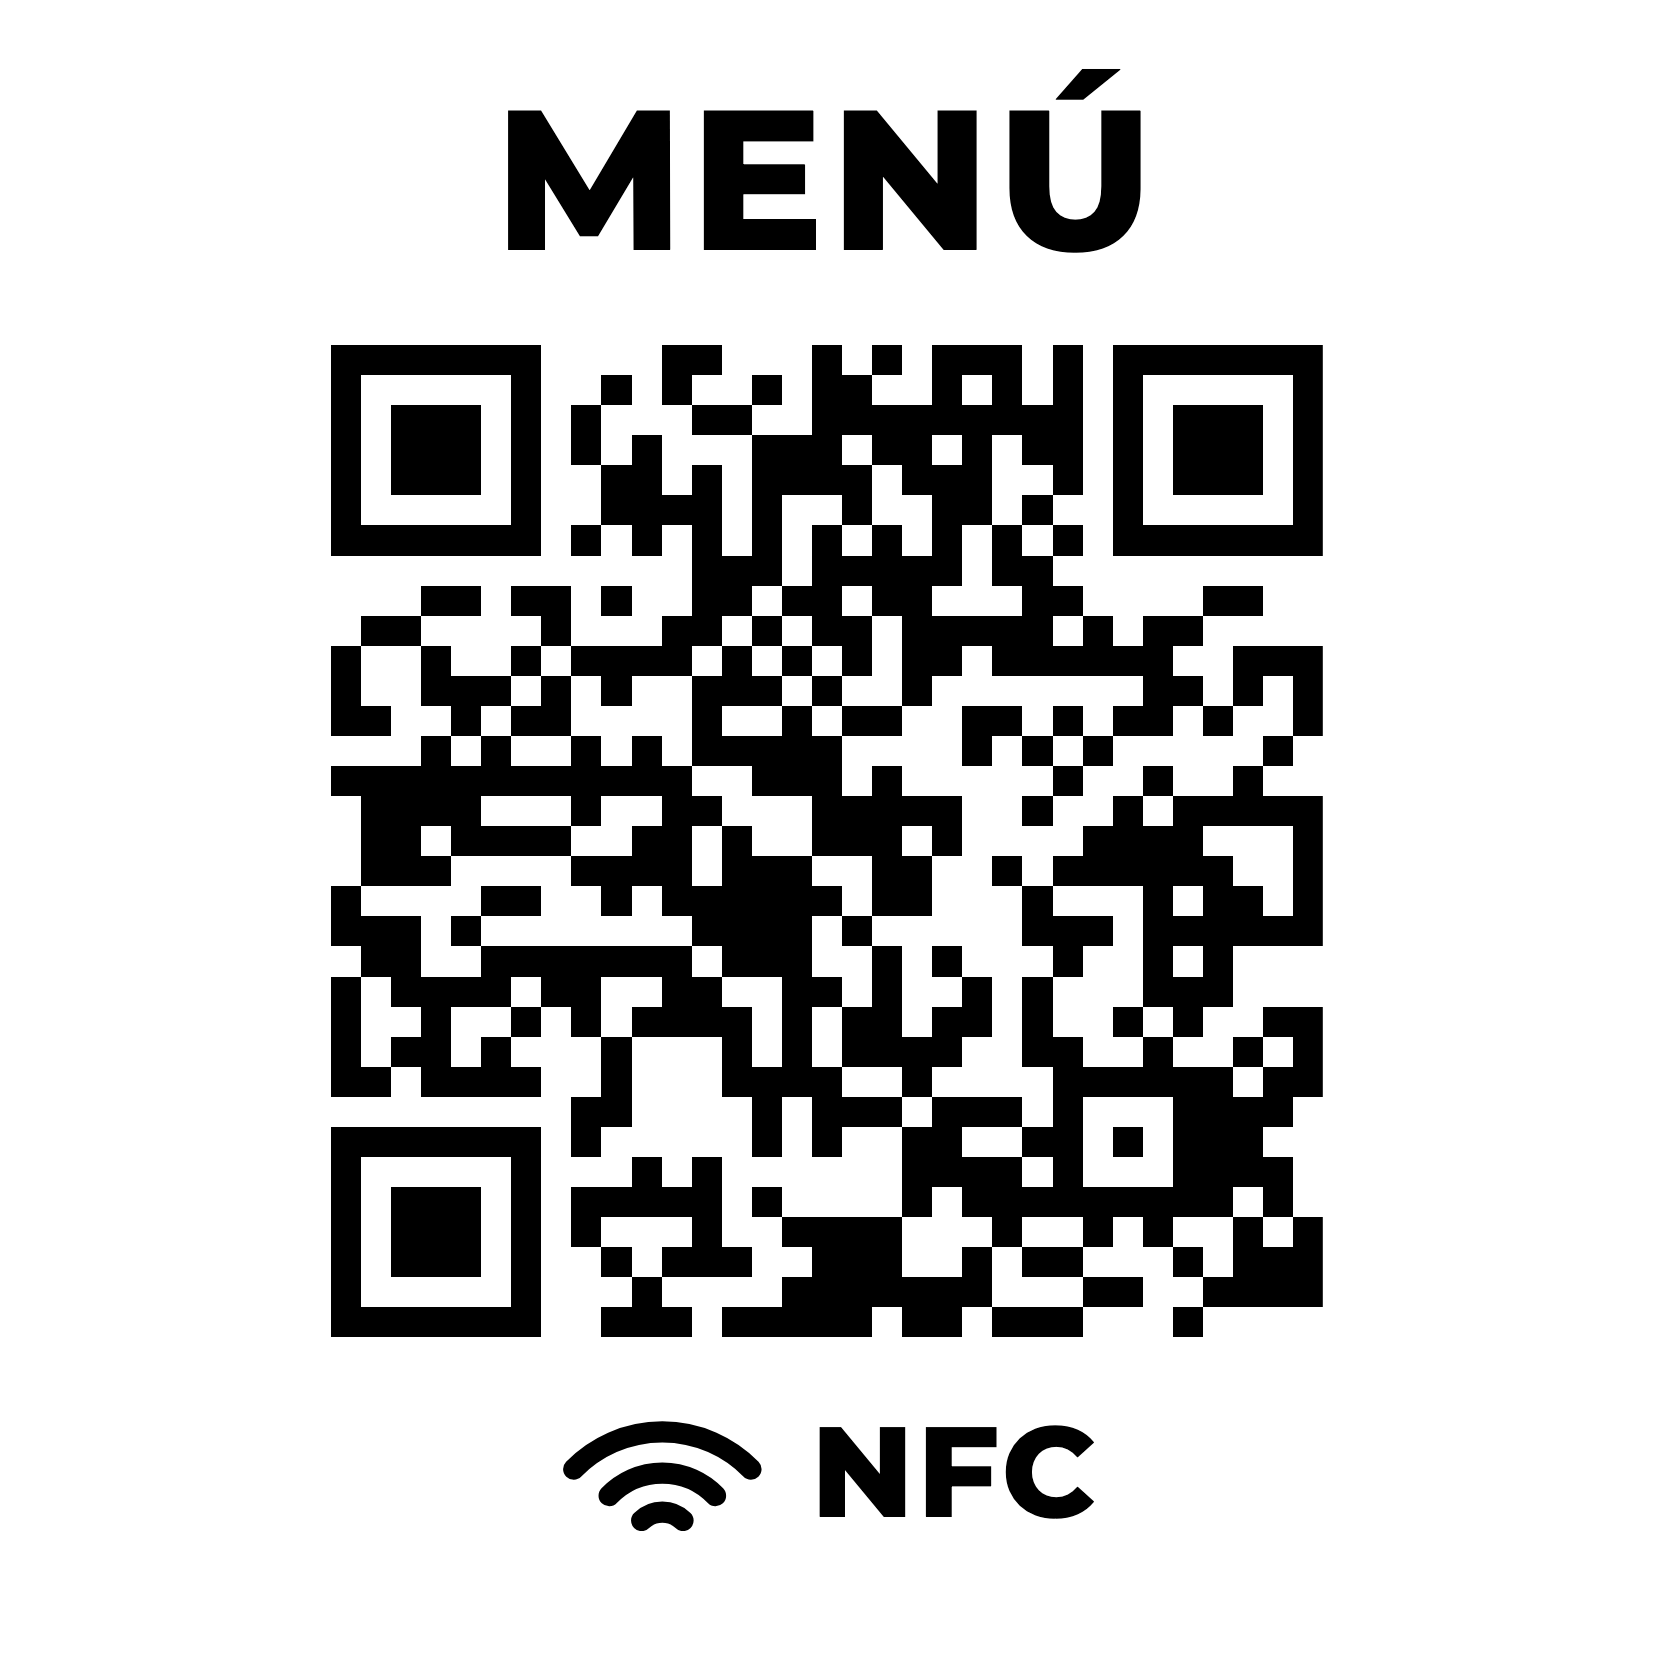
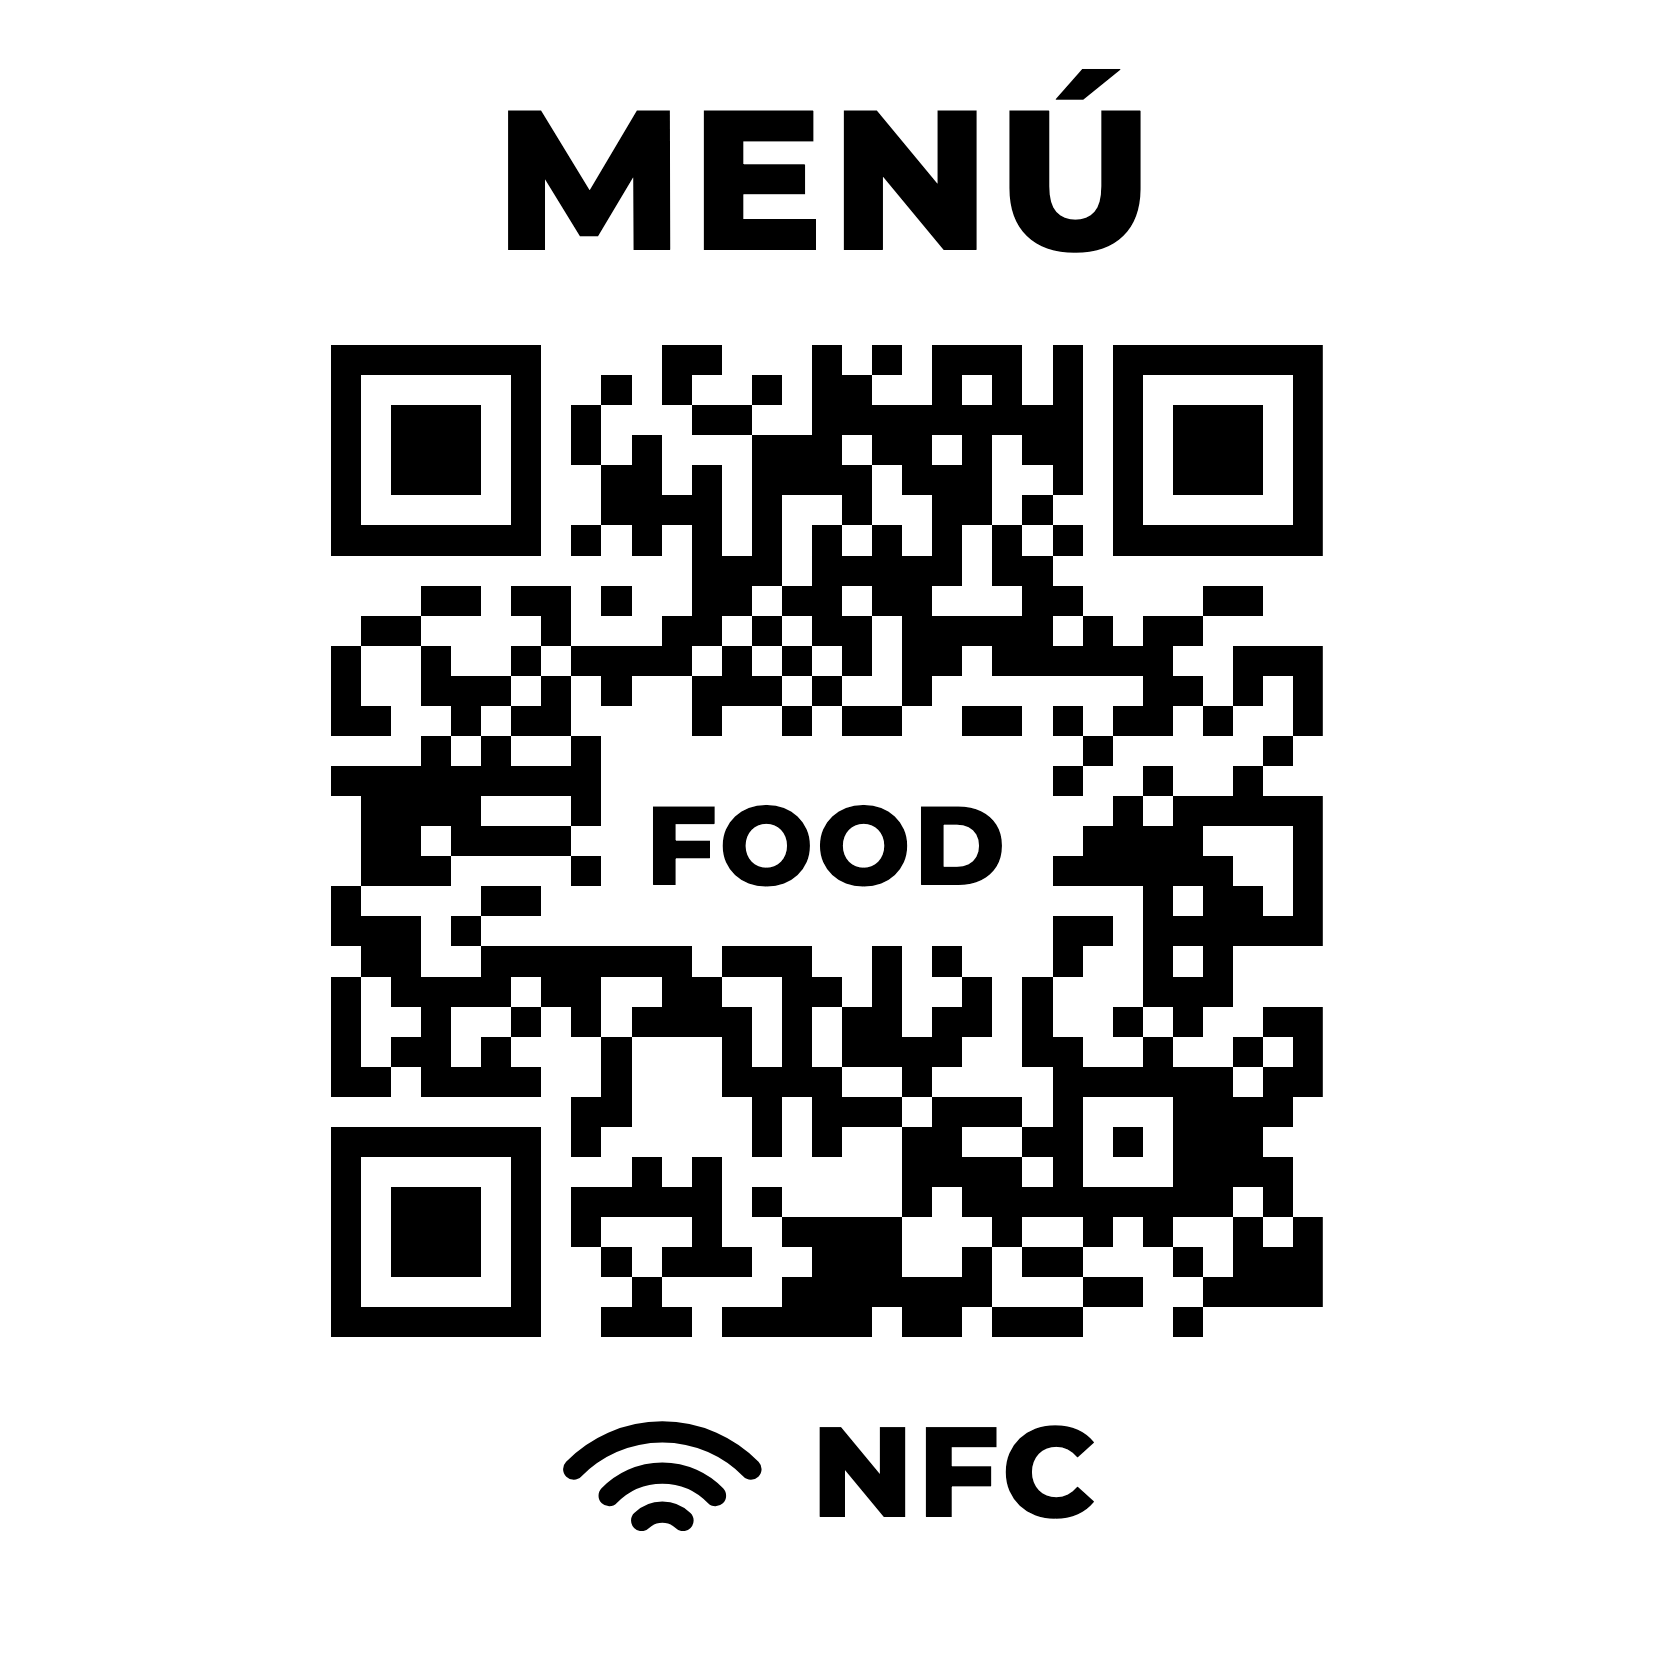
Sticker: FOOD en el centro del QR
Se quitan los 15 x 7 cuadritos del medio (el 10 % del QR; la corrección H aguanta cerca del 30 %)
y ahí va el nombre. Probado: se lee normal, pequeño y borroso, en PNG y en PDF.

Changed region(s): [[0.3392, 0.4317, 0.6475, 0.5859]]

diff --git a/qr/sticker.html b/qr/sticker.html
@@ -30,8 +30,8 @@
 <body>
 <div class="sticker">
   <div class="titulo">MENÚ</div>
-  <!-- QR de https://foodandfriends.github.io/ (corrección de errores H) -->
-  <div class="qr"><svg viewBox="4 4 33 33" shape-rendering="crispEdges"><path fill="#000" d="M4 4h1v1h-1zM5 4h1v1h-1zM6 4h1v1h-1zM7 4h1v1h-1zM8 4h1v1h-1zM9 4h1v1h-1zM10 4h1v1h-1zM15 4h1v1h-1zM16 4h1v1h-1zM20 4h1v1h-1zM22 4h1v1h-1zM24 4h1v1h-1zM25 4h1v1h-1zM26 4h1v1h-1zM28 4h1v1h-1zM30 4h1v1h-1zM31 4h1v1h-1zM32 4h1v1h-1zM33 4h1v1h-1zM34 4h1v1h-1zM35 4h1v1h-1zM36 4h1v1h-1zM4 5h1v1h-1zM10 5h1v1h-1zM13 5h1v1h-1zM15 5h1v1h-1zM18 5h1v1h-1zM20 5h1v1h-1zM21 5h1v1h-1zM24 5h1v1h-1zM26 5h1v1h-1zM28 5h1v1h-1zM30 5h1v1h-1zM36 5h1v1h-1zM4 6h1v1h-1zM6 6h1v1h-1zM7 6h1v1h-1zM8 6h1v1h-1zM10 6h1v1h-1zM12 6h1v1h-1zM16 6h1v1h-1zM17 6h1v1h-1zM20 6h1v1h-1zM21 6h1v1h-1zM22 6h1v1h-1zM23 6h1v1h-1zM24 6h1v1h-1zM25 6h1v1h-1zM26 6h1v1h-1zM27 6h1v1h-1zM28 6h1v1h-1zM30 6h1v1h-1zM32 6h1v1h-1zM33 6h1v1h-1zM34 6h1v1h-1zM36 6h1v1h-1zM4 7h1v1h-1zM6 7h1v1h-1zM7 7h1v1h-1zM8 7h1v1h-1zM10 7h1v1h-1zM12 7h1v1h-1zM14 7h1v1h-1zM18 7h1v1h-1zM19 7h1v1h-1zM20 7h1v1h-1zM22 7h1v1h-1zM23 7h1v1h-1zM25 7h1v1h-1zM27 7h1v1h-1zM28 7h1v1h-1zM30 7h1v1h-1zM32 7h1v1h-1zM33 7h1v1h-1zM34 7h1v1h-1zM36 7h1v1h-1zM4 8h1v1h-1zM6 8h1v1h-1zM7 8h1v1h-1zM8 8h1v1h-1zM10 8h1v1h-1zM13 8h1v1h-1zM14 8h1v1h-1zM16 8h1v1h-1zM18 8h1v1h-1zM19 8h1v1h-1zM20 8h1v1h-1zM21 8h1v1h-1zM23 8h1v1h-1zM24 8h1v1h-1zM25 8h1v1h-1zM28 8h1v1h-1zM30 8h1v1h-1zM32 8h1v1h-1zM33 8h1v1h-1zM34 8h1v1h-1zM36 8h1v1h-1zM4 9h1v1h-1zM10 9h1v1h-1zM13 9h1v1h-1zM14 9h1v1h-1zM15 9h1v1h-1zM16 9h1v1h-1zM18 9h1v1h-1zM21 9h1v1h-1zM24 9h1v1h-1zM25 9h1v1h-1zM27 9h1v1h-1zM30 9h1v1h-1zM36 9h1v1h-1zM4 10h1v1h-1zM5 10h1v1h-1zM6 10h1v1h-1zM7 10h1v1h-1zM8 10h1v1h-1zM9 10h1v1h-1zM10 10h1v1h-1zM12 10h1v1h-1zM14 10h1v1h-1zM16 10h1v1h-1zM18 10h1v1h-1zM20 10h1v1h-1zM22 10h1v1h-1zM24 10h1v1h-1zM26 10h1v1h-1zM28 10h1v1h-1zM30 10h1v1h-1zM31 10h1v1h-1zM32 10h1v1h-1zM33 10h1v1h-1zM34 10h1v1h-1zM35 10h1v1h-1zM36 10h1v1h-1zM16 11h1v1h-1zM17 11h1v1h-1zM18 11h1v1h-1zM20 11h1v1h-1zM21 11h1v1h-1zM22 11h1v1h-1zM23 11h1v1h-1zM24 11h1v1h-1zM26 11h1v1h-1zM27 11h1v1h-1zM7 12h1v1h-1zM8 12h1v1h-1zM10 12h1v1h-1zM11 12h1v1h-1zM13 12h1v1h-1zM16 12h1v1h-1zM17 12h1v1h-1zM19 12h1v1h-1zM20 12h1v1h-1zM22 12h1v1h-1zM23 12h1v1h-1zM27 12h1v1h-1zM28 12h1v1h-1zM33 12h1v1h-1zM34 12h1v1h-1zM5 13h1v1h-1zM6 13h1v1h-1zM11 13h1v1h-1zM15 13h1v1h-1zM16 13h1v1h-1zM18 13h1v1h-1zM20 13h1v1h-1zM21 13h1v1h-1zM23 13h1v1h-1zM24 13h1v1h-1zM25 13h1v1h-1zM26 13h1v1h-1zM27 13h1v1h-1zM29 13h1v1h-1zM31 13h1v1h-1zM32 13h1v1h-1zM4 14h1v1h-1zM7 14h1v1h-1zM10 14h1v1h-1zM12 14h1v1h-1zM13 14h1v1h-1zM14 14h1v1h-1zM15 14h1v1h-1zM17 14h1v1h-1zM19 14h1v1h-1zM21 14h1v1h-1zM23 14h1v1h-1zM24 14h1v1h-1zM26 14h1v1h-1zM27 14h1v1h-1zM28 14h1v1h-1zM29 14h1v1h-1zM30 14h1v1h-1zM31 14h1v1h-1zM34 14h1v1h-1zM35 14h1v1h-1zM36 14h1v1h-1zM4 15h1v1h-1zM7 15h1v1h-1zM8 15h1v1h-1zM9 15h1v1h-1zM11 15h1v1h-1zM13 15h1v1h-1zM16 15h1v1h-1zM17 15h1v1h-1zM18 15h1v1h-1zM20 15h1v1h-1zM23 15h1v1h-1zM31 15h1v1h-1zM32 15h1v1h-1zM34 15h1v1h-1zM36 15h1v1h-1zM4 16h1v1h-1zM5 16h1v1h-1zM8 16h1v1h-1zM10 16h1v1h-1zM11 16h1v1h-1zM16 16h1v1h-1zM19 16h1v1h-1zM21 16h1v1h-1zM22 16h1v1h-1zM25 16h1v1h-1zM26 16h1v1h-1zM28 16h1v1h-1zM30 16h1v1h-1zM31 16h1v1h-1zM33 16h1v1h-1zM36 16h1v1h-1zM7 17h1v1h-1zM9 17h1v1h-1zM12 17h1v1h-1zM14 17h1v1h-1zM16 17h1v1h-1zM17 17h1v1h-1zM18 17h1v1h-1zM19 17h1v1h-1zM20 17h1v1h-1zM25 17h1v1h-1zM27 17h1v1h-1zM29 17h1v1h-1zM35 17h1v1h-1zM4 18h1v1h-1zM5 18h1v1h-1zM6 18h1v1h-1zM7 18h1v1h-1zM8 18h1v1h-1zM9 18h1v1h-1zM10 18h1v1h-1zM11 18h1v1h-1zM12 18h1v1h-1zM13 18h1v1h-1zM14 18h1v1h-1zM15 18h1v1h-1zM18 18h1v1h-1zM19 18h1v1h-1zM20 18h1v1h-1zM22 18h1v1h-1zM28 18h1v1h-1zM31 18h1v1h-1zM34 18h1v1h-1zM5 19h1v1h-1zM6 19h1v1h-1zM7 19h1v1h-1zM8 19h1v1h-1zM12 19h1v1h-1zM15 19h1v1h-1zM16 19h1v1h-1zM20 19h1v1h-1zM21 19h1v1h-1zM22 19h1v1h-1zM23 19h1v1h-1zM24 19h1v1h-1zM27 19h1v1h-1zM30 19h1v1h-1zM32 19h1v1h-1zM33 19h1v1h-1zM34 19h1v1h-1zM35 19h1v1h-1zM36 19h1v1h-1zM5 20h1v1h-1zM6 20h1v1h-1zM8 20h1v1h-1zM9 20h1v1h-1zM10 20h1v1h-1zM11 20h1v1h-1zM14 20h1v1h-1zM15 20h1v1h-1zM17 20h1v1h-1zM20 20h1v1h-1zM21 20h1v1h-1zM22 20h1v1h-1zM24 20h1v1h-1zM29 20h1v1h-1zM30 20h1v1h-1zM31 20h1v1h-1zM32 20h1v1h-1zM36 20h1v1h-1zM5 21h1v1h-1zM6 21h1v1h-1zM7 21h1v1h-1zM12 21h1v1h-1zM13 21h1v1h-1zM14 21h1v1h-1zM15 21h1v1h-1zM17 21h1v1h-1zM18 21h1v1h-1zM19 21h1v1h-1zM22 21h1v1h-1zM23 21h1v1h-1zM26 21h1v1h-1zM28 21h1v1h-1zM29 21h1v1h-1zM30 21h1v1h-1zM31 21h1v1h-1zM32 21h1v1h-1zM33 21h1v1h-1zM36 21h1v1h-1zM4 22h1v1h-1zM9 22h1v1h-1zM10 22h1v1h-1zM13 22h1v1h-1zM15 22h1v1h-1zM16 22h1v1h-1zM17 22h1v1h-1zM18 22h1v1h-1zM19 22h1v1h-1zM20 22h1v1h-1zM22 22h1v1h-1zM23 22h1v1h-1zM27 22h1v1h-1zM31 22h1v1h-1zM33 22h1v1h-1zM34 22h1v1h-1zM36 22h1v1h-1zM4 23h1v1h-1zM5 23h1v1h-1zM6 23h1v1h-1zM8 23h1v1h-1zM16 23h1v1h-1zM17 23h1v1h-1zM18 23h1v1h-1zM19 23h1v1h-1zM21 23h1v1h-1zM27 23h1v1h-1zM28 23h1v1h-1zM29 23h1v1h-1zM31 23h1v1h-1zM32 23h1v1h-1zM33 23h1v1h-1zM34 23h1v1h-1zM35 23h1v1h-1zM36 23h1v1h-1zM5 24h1v1h-1zM6 24h1v1h-1zM9 24h1v1h-1zM10 24h1v1h-1zM11 24h1v1h-1zM12 24h1v1h-1zM13 24h1v1h-1zM14 24h1v1h-1zM15 24h1v1h-1zM17 24h1v1h-1zM18 24h1v1h-1zM19 24h1v1h-1zM22 24h1v1h-1zM24 24h1v1h-1zM28 24h1v1h-1zM31 24h1v1h-1zM33 24h1v1h-1zM4 25h1v1h-1zM6 25h1v1h-1zM7 25h1v1h-1zM8 25h1v1h-1zM9 25h1v1h-1zM11 25h1v1h-1zM12 25h1v1h-1zM15 25h1v1h-1zM16 25h1v1h-1zM19 25h1v1h-1zM20 25h1v1h-1zM22 25h1v1h-1zM25 25h1v1h-1zM27 25h1v1h-1zM31 25h1v1h-1zM32 25h1v1h-1zM33 25h1v1h-1zM4 26h1v1h-1zM7 26h1v1h-1zM10 26h1v1h-1zM12 26h1v1h-1zM14 26h1v1h-1zM15 26h1v1h-1zM16 26h1v1h-1zM17 26h1v1h-1zM19 26h1v1h-1zM21 26h1v1h-1zM22 26h1v1h-1zM24 26h1v1h-1zM25 26h1v1h-1zM27 26h1v1h-1zM30 26h1v1h-1zM32 26h1v1h-1zM35 26h1v1h-1zM36 26h1v1h-1zM4 27h1v1h-1zM6 27h1v1h-1zM7 27h1v1h-1zM9 27h1v1h-1zM13 27h1v1h-1zM17 27h1v1h-1zM19 27h1v1h-1zM21 27h1v1h-1zM22 27h1v1h-1zM23 27h1v1h-1zM24 27h1v1h-1zM27 27h1v1h-1zM28 27h1v1h-1zM31 27h1v1h-1zM34 27h1v1h-1zM36 27h1v1h-1zM4 28h1v1h-1zM5 28h1v1h-1zM7 28h1v1h-1zM8 28h1v1h-1zM9 28h1v1h-1zM10 28h1v1h-1zM13 28h1v1h-1zM17 28h1v1h-1zM18 28h1v1h-1zM19 28h1v1h-1zM20 28h1v1h-1zM23 28h1v1h-1zM28 28h1v1h-1zM29 28h1v1h-1zM30 28h1v1h-1zM31 28h1v1h-1zM32 28h1v1h-1zM33 28h1v1h-1zM35 28h1v1h-1zM36 28h1v1h-1zM12 29h1v1h-1zM13 29h1v1h-1zM18 29h1v1h-1zM20 29h1v1h-1zM21 29h1v1h-1zM22 29h1v1h-1zM24 29h1v1h-1zM25 29h1v1h-1zM26 29h1v1h-1zM28 29h1v1h-1zM32 29h1v1h-1zM33 29h1v1h-1zM34 29h1v1h-1zM35 29h1v1h-1zM4 30h1v1h-1zM5 30h1v1h-1zM6 30h1v1h-1zM7 30h1v1h-1zM8 30h1v1h-1zM9 30h1v1h-1zM10 30h1v1h-1zM12 30h1v1h-1zM18 30h1v1h-1zM20 30h1v1h-1zM23 30h1v1h-1zM24 30h1v1h-1zM27 30h1v1h-1zM28 30h1v1h-1zM30 30h1v1h-1zM32 30h1v1h-1zM33 30h1v1h-1zM34 30h1v1h-1zM4 31h1v1h-1zM10 31h1v1h-1zM14 31h1v1h-1zM16 31h1v1h-1zM23 31h1v1h-1zM24 31h1v1h-1zM25 31h1v1h-1zM26 31h1v1h-1zM28 31h1v1h-1zM32 31h1v1h-1zM33 31h1v1h-1zM34 31h1v1h-1zM35 31h1v1h-1zM4 32h1v1h-1zM6 32h1v1h-1zM7 32h1v1h-1zM8 32h1v1h-1zM10 32h1v1h-1zM12 32h1v1h-1zM13 32h1v1h-1zM14 32h1v1h-1zM15 32h1v1h-1zM16 32h1v1h-1zM18 32h1v1h-1zM23 32h1v1h-1zM25 32h1v1h-1zM26 32h1v1h-1zM27 32h1v1h-1zM28 32h1v1h-1zM29 32h1v1h-1zM30 32h1v1h-1zM31 32h1v1h-1zM32 32h1v1h-1zM33 32h1v1h-1zM35 32h1v1h-1zM4 33h1v1h-1zM6 33h1v1h-1zM7 33h1v1h-1zM8 33h1v1h-1zM10 33h1v1h-1zM12 33h1v1h-1zM16 33h1v1h-1zM19 33h1v1h-1zM20 33h1v1h-1zM21 33h1v1h-1zM22 33h1v1h-1zM26 33h1v1h-1zM29 33h1v1h-1zM31 33h1v1h-1zM34 33h1v1h-1zM36 33h1v1h-1zM4 34h1v1h-1zM6 34h1v1h-1zM7 34h1v1h-1zM8 34h1v1h-1zM10 34h1v1h-1zM13 34h1v1h-1zM15 34h1v1h-1zM16 34h1v1h-1zM17 34h1v1h-1zM20 34h1v1h-1zM21 34h1v1h-1zM22 34h1v1h-1zM25 34h1v1h-1zM27 34h1v1h-1zM28 34h1v1h-1zM32 34h1v1h-1zM34 34h1v1h-1zM35 34h1v1h-1zM36 34h1v1h-1zM4 35h1v1h-1zM10 35h1v1h-1zM14 35h1v1h-1zM19 35h1v1h-1zM20 35h1v1h-1zM21 35h1v1h-1zM22 35h1v1h-1zM23 35h1v1h-1zM24 35h1v1h-1zM25 35h1v1h-1zM29 35h1v1h-1zM30 35h1v1h-1zM33 35h1v1h-1zM34 35h1v1h-1zM35 35h1v1h-1zM36 35h1v1h-1zM4 36h1v1h-1zM5 36h1v1h-1zM6 36h1v1h-1zM7 36h1v1h-1zM8 36h1v1h-1zM9 36h1v1h-1zM10 36h1v1h-1zM13 36h1v1h-1zM14 36h1v1h-1zM15 36h1v1h-1zM17 36h1v1h-1zM18 36h1v1h-1zM19 36h1v1h-1zM20 36h1v1h-1zM21 36h1v1h-1zM23 36h1v1h-1zM24 36h1v1h-1zM26 36h1v1h-1zM27 36h1v1h-1zM28 36h1v1h-1zM32 36h1v1h-1z"/></svg></div>
+  <!-- QR de https://foodandfriends.github.io/ (corrección de errores H), con FOOD en el centro (se quitan los 15 x 7 cuadritos del medio: el 10 %), aguanta hasta cerca del 30 % -->
+  <div class="qr"><svg viewBox="4 4 33 33" ><path shape-rendering="crispEdges" fill="#000" d="M4 4h1v1h-1zM5 4h1v1h-1zM6 4h1v1h-1zM7 4h1v1h-1zM8 4h1v1h-1zM9 4h1v1h-1zM10 4h1v1h-1zM15 4h1v1h-1zM16 4h1v1h-1zM20 4h1v1h-1zM22 4h1v1h-1zM24 4h1v1h-1zM25 4h1v1h-1zM26 4h1v1h-1zM28 4h1v1h-1zM30 4h1v1h-1zM31 4h1v1h-1zM32 4h1v1h-1zM33 4h1v1h-1zM34 4h1v1h-1zM35 4h1v1h-1zM36 4h1v1h-1zM4 5h1v1h-1zM10 5h1v1h-1zM13 5h1v1h-1zM15 5h1v1h-1zM18 5h1v1h-1zM20 5h1v1h-1zM21 5h1v1h-1zM24 5h1v1h-1zM26 5h1v1h-1zM28 5h1v1h-1zM30 5h1v1h-1zM36 5h1v1h-1zM4 6h1v1h-1zM6 6h1v1h-1zM7 6h1v1h-1zM8 6h1v1h-1zM10 6h1v1h-1zM12 6h1v1h-1zM16 6h1v1h-1zM17 6h1v1h-1zM20 6h1v1h-1zM21 6h1v1h-1zM22 6h1v1h-1zM23 6h1v1h-1zM24 6h1v1h-1zM25 6h1v1h-1zM26 6h1v1h-1zM27 6h1v1h-1zM28 6h1v1h-1zM30 6h1v1h-1zM32 6h1v1h-1zM33 6h1v1h-1zM34 6h1v1h-1zM36 6h1v1h-1zM4 7h1v1h-1zM6 7h1v1h-1zM7 7h1v1h-1zM8 7h1v1h-1zM10 7h1v1h-1zM12 7h1v1h-1zM14 7h1v1h-1zM18 7h1v1h-1zM19 7h1v1h-1zM20 7h1v1h-1zM22 7h1v1h-1zM23 7h1v1h-1zM25 7h1v1h-1zM27 7h1v1h-1zM28 7h1v1h-1zM30 7h1v1h-1zM32 7h1v1h-1zM33 7h1v1h-1zM34 7h1v1h-1zM36 7h1v1h-1zM4 8h1v1h-1zM6 8h1v1h-1zM7 8h1v1h-1zM8 8h1v1h-1zM10 8h1v1h-1zM13 8h1v1h-1zM14 8h1v1h-1zM16 8h1v1h-1zM18 8h1v1h-1zM19 8h1v1h-1zM20 8h1v1h-1zM21 8h1v1h-1zM23 8h1v1h-1zM24 8h1v1h-1zM25 8h1v1h-1zM28 8h1v1h-1zM30 8h1v1h-1zM32 8h1v1h-1zM33 8h1v1h-1zM34 8h1v1h-1zM36 8h1v1h-1zM4 9h1v1h-1zM10 9h1v1h-1zM13 9h1v1h-1zM14 9h1v1h-1zM15 9h1v1h-1zM16 9h1v1h-1zM18 9h1v1h-1zM21 9h1v1h-1zM24 9h1v1h-1zM25 9h1v1h-1zM27 9h1v1h-1zM30 9h1v1h-1zM36 9h1v1h-1zM4 10h1v1h-1zM5 10h1v1h-1zM6 10h1v1h-1zM7 10h1v1h-1zM8 10h1v1h-1zM9 10h1v1h-1zM10 10h1v1h-1zM12 10h1v1h-1zM14 10h1v1h-1zM16 10h1v1h-1zM18 10h1v1h-1zM20 10h1v1h-1zM22 10h1v1h-1zM24 10h1v1h-1zM26 10h1v1h-1zM28 10h1v1h-1zM30 10h1v1h-1zM31 10h1v1h-1zM32 10h1v1h-1zM33 10h1v1h-1zM34 10h1v1h-1zM35 10h1v1h-1zM36 10h1v1h-1zM16 11h1v1h-1zM17 11h1v1h-1zM18 11h1v1h-1zM20 11h1v1h-1zM21 11h1v1h-1zM22 11h1v1h-1zM23 11h1v1h-1zM24 11h1v1h-1zM26 11h1v1h-1zM27 11h1v1h-1zM7 12h1v1h-1zM8 12h1v1h-1zM10 12h1v1h-1zM11 12h1v1h-1zM13 12h1v1h-1zM16 12h1v1h-1zM17 12h1v1h-1zM19 12h1v1h-1zM20 12h1v1h-1zM22 12h1v1h-1zM23 12h1v1h-1zM27 12h1v1h-1zM28 12h1v1h-1zM33 12h1v1h-1zM34 12h1v1h-1zM5 13h1v1h-1zM6 13h1v1h-1zM11 13h1v1h-1zM15 13h1v1h-1zM16 13h1v1h-1zM18 13h1v1h-1zM20 13h1v1h-1zM21 13h1v1h-1zM23 13h1v1h-1zM24 13h1v1h-1zM25 13h1v1h-1zM26 13h1v1h-1zM27 13h1v1h-1zM29 13h1v1h-1zM31 13h1v1h-1zM32 13h1v1h-1zM4 14h1v1h-1zM7 14h1v1h-1zM10 14h1v1h-1zM12 14h1v1h-1zM13 14h1v1h-1zM14 14h1v1h-1zM15 14h1v1h-1zM17 14h1v1h-1zM19 14h1v1h-1zM21 14h1v1h-1zM23 14h1v1h-1zM24 14h1v1h-1zM26 14h1v1h-1zM27 14h1v1h-1zM28 14h1v1h-1zM29 14h1v1h-1zM30 14h1v1h-1zM31 14h1v1h-1zM34 14h1v1h-1zM35 14h1v1h-1zM36 14h1v1h-1zM4 15h1v1h-1zM7 15h1v1h-1zM8 15h1v1h-1zM9 15h1v1h-1zM11 15h1v1h-1zM13 15h1v1h-1zM16 15h1v1h-1zM17 15h1v1h-1zM18 15h1v1h-1zM20 15h1v1h-1zM23 15h1v1h-1zM31 15h1v1h-1zM32 15h1v1h-1zM34 15h1v1h-1zM36 15h1v1h-1zM4 16h1v1h-1zM5 16h1v1h-1zM8 16h1v1h-1zM10 16h1v1h-1zM11 16h1v1h-1zM16 16h1v1h-1zM19 16h1v1h-1zM21 16h1v1h-1zM22 16h1v1h-1zM25 16h1v1h-1zM26 16h1v1h-1zM28 16h1v1h-1zM30 16h1v1h-1zM31 16h1v1h-1zM33 16h1v1h-1zM36 16h1v1h-1zM7 17h1v1h-1zM9 17h1v1h-1zM12 17h1v1h-1zM29 17h1v1h-1zM35 17h1v1h-1zM4 18h1v1h-1zM5 18h1v1h-1zM6 18h1v1h-1zM7 18h1v1h-1zM8 18h1v1h-1zM9 18h1v1h-1zM10 18h1v1h-1zM11 18h1v1h-1zM12 18h1v1h-1zM28 18h1v1h-1zM31 18h1v1h-1zM34 18h1v1h-1zM5 19h1v1h-1zM6 19h1v1h-1zM7 19h1v1h-1zM8 19h1v1h-1zM12 19h1v1h-1zM30 19h1v1h-1zM32 19h1v1h-1zM33 19h1v1h-1zM34 19h1v1h-1zM35 19h1v1h-1zM36 19h1v1h-1zM5 20h1v1h-1zM6 20h1v1h-1zM8 20h1v1h-1zM9 20h1v1h-1zM10 20h1v1h-1zM11 20h1v1h-1zM29 20h1v1h-1zM30 20h1v1h-1zM31 20h1v1h-1zM32 20h1v1h-1zM36 20h1v1h-1zM5 21h1v1h-1zM6 21h1v1h-1zM7 21h1v1h-1zM12 21h1v1h-1zM28 21h1v1h-1zM29 21h1v1h-1zM30 21h1v1h-1zM31 21h1v1h-1zM32 21h1v1h-1zM33 21h1v1h-1zM36 21h1v1h-1zM4 22h1v1h-1zM9 22h1v1h-1zM10 22h1v1h-1zM31 22h1v1h-1zM33 22h1v1h-1zM34 22h1v1h-1zM36 22h1v1h-1zM4 23h1v1h-1zM5 23h1v1h-1zM6 23h1v1h-1zM8 23h1v1h-1zM28 23h1v1h-1zM29 23h1v1h-1zM31 23h1v1h-1zM32 23h1v1h-1zM33 23h1v1h-1zM34 23h1v1h-1zM35 23h1v1h-1zM36 23h1v1h-1zM5 24h1v1h-1zM6 24h1v1h-1zM9 24h1v1h-1zM10 24h1v1h-1zM11 24h1v1h-1zM12 24h1v1h-1zM13 24h1v1h-1zM14 24h1v1h-1zM15 24h1v1h-1zM17 24h1v1h-1zM18 24h1v1h-1zM19 24h1v1h-1zM22 24h1v1h-1zM24 24h1v1h-1zM28 24h1v1h-1zM31 24h1v1h-1zM33 24h1v1h-1zM4 25h1v1h-1zM6 25h1v1h-1zM7 25h1v1h-1zM8 25h1v1h-1zM9 25h1v1h-1zM11 25h1v1h-1zM12 25h1v1h-1zM15 25h1v1h-1zM16 25h1v1h-1zM19 25h1v1h-1zM20 25h1v1h-1zM22 25h1v1h-1zM25 25h1v1h-1zM27 25h1v1h-1zM31 25h1v1h-1zM32 25h1v1h-1zM33 25h1v1h-1zM4 26h1v1h-1zM7 26h1v1h-1zM10 26h1v1h-1zM12 26h1v1h-1zM14 26h1v1h-1zM15 26h1v1h-1zM16 26h1v1h-1zM17 26h1v1h-1zM19 26h1v1h-1zM21 26h1v1h-1zM22 26h1v1h-1zM24 26h1v1h-1zM25 26h1v1h-1zM27 26h1v1h-1zM30 26h1v1h-1zM32 26h1v1h-1zM35 26h1v1h-1zM36 26h1v1h-1zM4 27h1v1h-1zM6 27h1v1h-1zM7 27h1v1h-1zM9 27h1v1h-1zM13 27h1v1h-1zM17 27h1v1h-1zM19 27h1v1h-1zM21 27h1v1h-1zM22 27h1v1h-1zM23 27h1v1h-1zM24 27h1v1h-1zM27 27h1v1h-1zM28 27h1v1h-1zM31 27h1v1h-1zM34 27h1v1h-1zM36 27h1v1h-1zM4 28h1v1h-1zM5 28h1v1h-1zM7 28h1v1h-1zM8 28h1v1h-1zM9 28h1v1h-1zM10 28h1v1h-1zM13 28h1v1h-1zM17 28h1v1h-1zM18 28h1v1h-1zM19 28h1v1h-1zM20 28h1v1h-1zM23 28h1v1h-1zM28 28h1v1h-1zM29 28h1v1h-1zM30 28h1v1h-1zM31 28h1v1h-1zM32 28h1v1h-1zM33 28h1v1h-1zM35 28h1v1h-1zM36 28h1v1h-1zM12 29h1v1h-1zM13 29h1v1h-1zM18 29h1v1h-1zM20 29h1v1h-1zM21 29h1v1h-1zM22 29h1v1h-1zM24 29h1v1h-1zM25 29h1v1h-1zM26 29h1v1h-1zM28 29h1v1h-1zM32 29h1v1h-1zM33 29h1v1h-1zM34 29h1v1h-1zM35 29h1v1h-1zM4 30h1v1h-1zM5 30h1v1h-1zM6 30h1v1h-1zM7 30h1v1h-1zM8 30h1v1h-1zM9 30h1v1h-1zM10 30h1v1h-1zM12 30h1v1h-1zM18 30h1v1h-1zM20 30h1v1h-1zM23 30h1v1h-1zM24 30h1v1h-1zM27 30h1v1h-1zM28 30h1v1h-1zM30 30h1v1h-1zM32 30h1v1h-1zM33 30h1v1h-1zM34 30h1v1h-1zM4 31h1v1h-1zM10 31h1v1h-1zM14 31h1v1h-1zM16 31h1v1h-1zM23 31h1v1h-1zM24 31h1v1h-1zM25 31h1v1h-1zM26 31h1v1h-1zM28 31h1v1h-1zM32 31h1v1h-1zM33 31h1v1h-1zM34 31h1v1h-1zM35 31h1v1h-1zM4 32h1v1h-1zM6 32h1v1h-1zM7 32h1v1h-1zM8 32h1v1h-1zM10 32h1v1h-1zM12 32h1v1h-1zM13 32h1v1h-1zM14 32h1v1h-1zM15 32h1v1h-1zM16 32h1v1h-1zM18 32h1v1h-1zM23 32h1v1h-1zM25 32h1v1h-1zM26 32h1v1h-1zM27 32h1v1h-1zM28 32h1v1h-1zM29 32h1v1h-1zM30 32h1v1h-1zM31 32h1v1h-1zM32 32h1v1h-1zM33 32h1v1h-1zM35 32h1v1h-1zM4 33h1v1h-1zM6 33h1v1h-1zM7 33h1v1h-1zM8 33h1v1h-1zM10 33h1v1h-1zM12 33h1v1h-1zM16 33h1v1h-1zM19 33h1v1h-1zM20 33h1v1h-1zM21 33h1v1h-1zM22 33h1v1h-1zM26 33h1v1h-1zM29 33h1v1h-1zM31 33h1v1h-1zM34 33h1v1h-1zM36 33h1v1h-1zM4 34h1v1h-1zM6 34h1v1h-1zM7 34h1v1h-1zM8 34h1v1h-1zM10 34h1v1h-1zM13 34h1v1h-1zM15 34h1v1h-1zM16 34h1v1h-1zM17 34h1v1h-1zM20 34h1v1h-1zM21 34h1v1h-1zM22 34h1v1h-1zM25 34h1v1h-1zM27 34h1v1h-1zM28 34h1v1h-1zM32 34h1v1h-1zM34 34h1v1h-1zM35 34h1v1h-1zM36 34h1v1h-1zM4 35h1v1h-1zM10 35h1v1h-1zM14 35h1v1h-1zM19 35h1v1h-1zM20 35h1v1h-1zM21 35h1v1h-1zM22 35h1v1h-1zM23 35h1v1h-1zM24 35h1v1h-1zM25 35h1v1h-1zM29 35h1v1h-1zM30 35h1v1h-1zM33 35h1v1h-1zM34 35h1v1h-1zM35 35h1v1h-1zM36 35h1v1h-1zM4 36h1v1h-1zM5 36h1v1h-1zM6 36h1v1h-1zM7 36h1v1h-1zM8 36h1v1h-1zM9 36h1v1h-1zM10 36h1v1h-1zM13 36h1v1h-1zM14 36h1v1h-1zM15 36h1v1h-1zM17 36h1v1h-1zM18 36h1v1h-1zM19 36h1v1h-1zM20 36h1v1h-1zM21 36h1v1h-1zM23 36h1v1h-1zM24 36h1v1h-1zM26 36h1v1h-1zM27 36h1v1h-1zM28 36h1v1h-1zM32 36h1v1h-1z"/><text x="20.5" y="20.62" text-anchor="middle" dominant-baseline="central" font-family="Montserrat, Arial Black, sans-serif" font-weight="800" font-size="3.7" letter-spacing=".1" fill="#000">FOOD</text></svg></div>
   <div class="nfc">
     <svg viewBox="0 0 36 20" fill="none" stroke="#000" stroke-width="3.6" stroke-linecap="round">
       <path d="M3 9.5a21 21 0 0 1 30 0"/><path d="M9 14a12.5 12.5 0 0 1 18 0"/><path d="M14.5 18.2a5 5 0 0 1 7 0"/>
